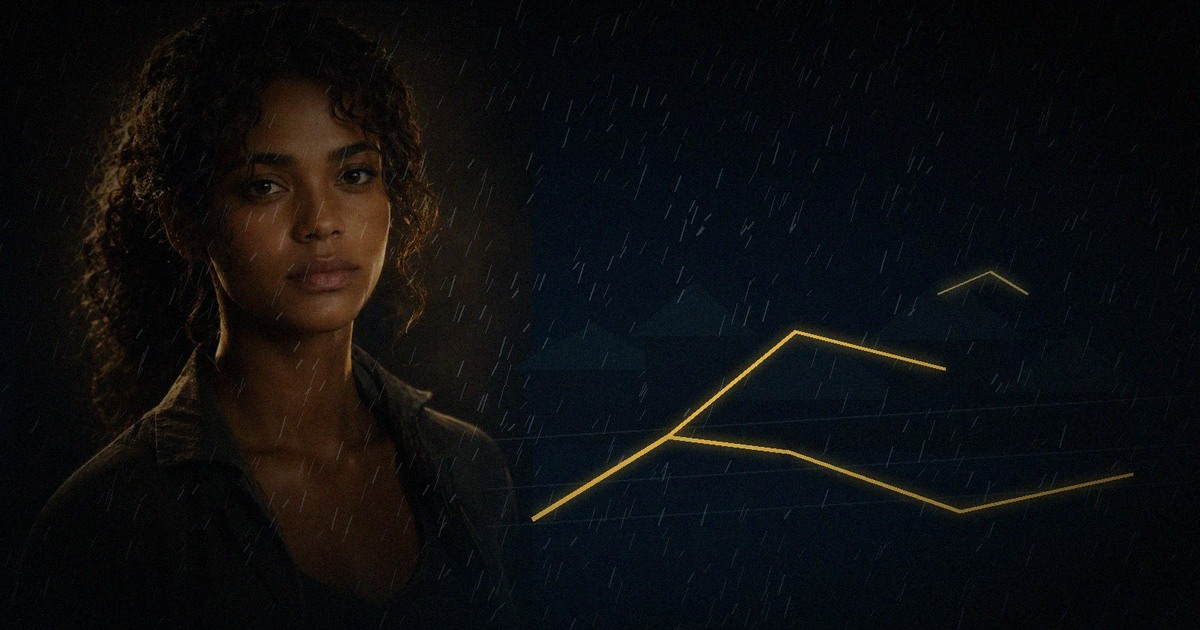
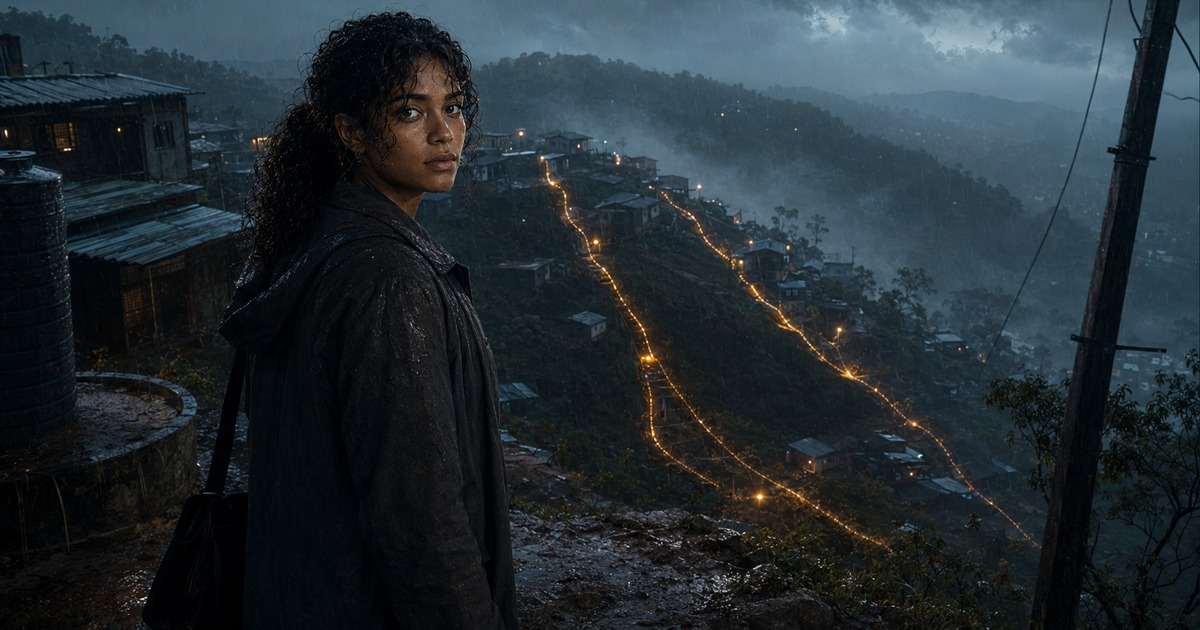
Add files via upload

diff --git a/public/Nara/episode-03-what-must-be-allowed-to-fall.html b/public/Nara/episode-03-what-must-be-allowed-to-fall.html
@@ -78,8 +78,7 @@
 <a class="btn gold" href="#scene-01">Begin the story</a>
 </div>
 </div>
-
-<figure class="hero-card hero-image"><img alt="Nara stands in storm rain beside three narrow golden verified paths over a dark hillside." fetchpriority="high" height="900" src="assets/img/s3/E03_R01_verified_paths.webp" width="1600"/><figcaption class="hero-caption">Protection begins by naming exactly what the light is—and is not—holding.</figcaption></figure></div>
+<figure class="hero-card hero-image"><img alt="Nara overlooks storm-soaked Kavera Ridge as narrow golden evacuation paths trace the unstable hillside." fetchpriority="high" height="941" src="assets/img/s3/E03_S00_hero_kavera_ridge.webp" width="1672"/><figcaption class="hero-caption">The hill is moving. Nara can protect only what she names precisely.</figcaption></figure></div>
 </section>
 <section class="section">
 <div class="narrow">
@@ -99,8 +98,7 @@
 <div class="scene-number">01</div>
 <div class="scene-title"><h2>The Glass Walks</h2><small>Kavera Ridge Community Clinic · 06:12 · nine days after CIVIC-9</small></div>
 </header>
-
-<div class="cinematic-grid"><figure class="image-frame wide"><img alt="A storm-dark clinic counter, sliding cup, floor crack and a narrowly supported stair surround Nara." decoding="async" height="900" loading="lazy" src="assets/img/s3/E03_R02_clinic_limit.webp" width="1600"/><figcaption>One cup moves. One stair holds. The first limit is small enough to be true.</figcaption></figure></div><div class="story-prose">
+<div class="cinematic-grid"><figure class="image-frame wide"><img alt="Inside a cracked clinic during heavy rain, Nara holds one failing stair while staff evacuate patients." decoding="async" height="941" loading="lazy" src="assets/img/s3/E03_S01_the_glass_walks.webp" width="1672"/><figcaption>One stair. Eighteen seconds. The first limit is small enough to be true.</figcaption></figure></div><div class="story-prose">
 <p class="opening dropcap">The first sign that the hill was moving was that the water in Kelechi’s cup walked uphill.</p>
 <p>He had set it on the clinic counter beside three cartons of insulin, a roll of cold-chain labels and the breakfast he had been trying to make Nara eat since Boroko. The cup trembled once. Then it slid six centimetres toward the wall.</p>
 <p>Kelechi caught it before it fell.</p>
@@ -169,7 +167,6 @@
 <div class="scene-title"><h2>No One Leaves a House Twice</h2><small>Kavera Ridge lower junction · 06:31</small></div>
 </header>
 <div class="cinematic-wide">
-
 </div>
 <div class="story-prose">
 <p class="opening dropcap">By the time Municipal Resilience arrived, the hill had drawn a dark line through the neighbourhood.</p>
@@ -253,9 +250,8 @@
 <div class="scene-title"><h2>Twenty Minutes Is Not Forever</h2><small>Kavera Ridge crown road · 06:38</small></div>
 </header>
 <div class="cinematic-wide">
-
 </div>
-<div class="cinematic-grid"><figure class="image-frame wide"><img alt="A rain-dark hillside, twenty countdown marks and one narrow golden evacuation route." decoding="async" height="900" loading="lazy" src="assets/img/s3/E03_R03_twenty_minutes.webp" width="1600"/><figcaption>Time protects only when everyone knows where it ends.</figcaption></figure></div><div class="story-prose">
+<div class="cinematic-grid"><figure class="image-frame wide"><img alt="Residents descend Kavera Ridge through rain along a narrow golden evacuation path while Nara watches the unstable slope." decoding="async" height="941" loading="lazy" src="assets/img/s3/E03_S03_twenty_minutes.webp" width="1672"/><figcaption>Twenty minutes is not forever. It is time enough to begin leaving.</figcaption></figure></div><div class="story-prose">
 <p class="opening dropcap">They put the countdown where everyone could see it.</p>
 <p>Kila tied a digital road timer to the church fence. Lani assigned one radio channel to household counts and another to slope movement. Sefa opened the church hall and turned pews into sorting tables: medicine, documents, food, mobility assistance.</p>
 <p>Miri refused police inside the houses.</p>
@@ -315,7 +311,6 @@
 <div class="scene-title"><h2>Gold Across the Ridge</h2><small>Kavera Ridge · 06:49</small></div>
 </header>
 <div class="cinematic-wide">
-
 </div>
 <div class="story-prose">
 <p class="opening dropcap">Hope changed the direction of traffic.</p>
@@ -381,7 +376,6 @@
 <div class="scene-title"><h2>Hope Looks Like Engineering</h2><small>Kavera Ridge church terrace · 06:52</small></div>
 </header>
 <div class="cinematic-wide">
-
 </div>
 <div class="story-prose">
 <p class="opening dropcap">Nara removed the line from the clinic wall.</p>
@@ -425,7 +419,6 @@
 <div class="scene-title"><h2>The Deep Line</h2><small>Survey point K-4 · 06:55</small></div>
 </header>
 <div class="cinematic-wide">
-
 </div>
 <div class="story-prose">
 <p class="opening dropcap">Adaeze took Nara to the borehole because argument had become less dangerous than ignorance.</p>
@@ -475,9 +468,8 @@
 <div class="scene-title"><h2>The Clearance Order</h2><small>Kavera Ridge lower junction · 06:58</small></div>
 </header>
 <div class="cinematic-wide">
-
 </div>
-<div class="cinematic-grid"><figure class="image-frame wide"><img alt="An emergency clearance order, a reversing machine and house keys beside a blue door." decoding="async" height="900" loading="lazy" src="assets/img/s3/E03_R04_clearance_and_keys.webp" width="1600"/><figcaption>The refusal to leave began with evidence, not ignorance.</figcaption></figure></div><div class="story-prose">
+<div class="cinematic-grid"><figure class="image-frame wide"><img alt="Nara and Kavera Ridge residents confront an emergency official beside excavators and evacuation buses in the rain." decoding="async" height="941" loading="lazy" src="assets/img/s3/E03_S07_clearance_order.webp" width="1672"/><figcaption>The machines reverse before the order asks anyone to trust them.</figcaption></figure></div><div class="story-prose">
 <p class="opening dropcap">Mere Igo arrived on foot because the road was blocked.</p>
 <p>She carried no umbrella. The independent rights observer from the CIVIC-9 incident held her phone inside a clear evidence pouch and a printed order above the rain.</p>
 <p>“Stop the machines,” she said.</p>
@@ -530,7 +522,6 @@
 <div class="scene-title"><h2>A Safer Place to Leave From</h2><small>Kavera Ridge · 07:02</small></div>
 </header>
 <div class="cinematic-wide">
-
 </div>
 <div class="story-prose">
 <p class="opening dropcap">Lani read the notice on the public channel.</p>
@@ -578,8 +569,7 @@
 <div class="scene-number">09</div>
 <div class="scene-title"><h2>Let Mine Go First</h2><small>Miri’s house · north row · 07:05</small></div>
 </header>
-
-<div class="cinematic-grid"><figure class="image-frame wide"><img alt="A blue house turns away from the occupied stair and slides along a narrow golden release path." decoding="async" height="900" loading="lazy" src="assets/img/s3/E03_R05_release_blue_house.webp" width="1600"/><figcaption>Not gently. Safely.</figcaption></figure></div><div class="story-prose">
+<div class="cinematic-grid"><figure class="image-frame wide"><img alt="Nara faces Miri and her family beside their blue-doored hillside home as fine golden lines reveal a safer release path." decoding="async" height="941" loading="lazy" src="assets/img/s3/E03_S09_let_mine_go_first.webp" width="1672"/><figcaption>Miri does not surrender her home. She chooses where its weight may go.</figcaption></figure></div><div class="story-prose">
 <p class="opening dropcap">Miri entered her house without Nara.</p>
 <p>That mattered.</p>
 <p>Nara waited outside the threshold while Kila stood where he could reach Miri without pretending he owned the minute. Inside, drawers opened. A cupboard door struck a wall. The house shifted and every loose spoon answered.</p>
@@ -619,9 +609,8 @@
 <div class="scene-title"><h2>The Hill Chooses Gravity</h2><small>Kavera Ridge north stair · 07:08</small></div>
 </header>
 <div class="cinematic-wide">
-
 </div>
-<div class="cinematic-grid"><figure class="image-frame wide"><img alt="A cutaway hillside shows empty houses releasing into a gully while a school road remains protected." decoding="async" height="900" loading="lazy" src="assets/img/s3/E03_R06_gravity_path.webp" width="1600"/><figcaption>The light does not defeat gravity. It gives gravity a safer direction.</figcaption></figure></div><div class="story-prose">
+<div class="cinematic-grid"><figure class="image-frame wide"><img alt="A vast landslide tears empty houses into a gully while a narrow golden path protects the school road across the ridge." decoding="async" height="941" loading="lazy" src="assets/img/s3/E03_S10_hill_chooses_gravity.webp" width="1672"/><figcaption>The light does not defeat gravity. It gives gravity a safer direction.</figcaption></figure></div><div class="story-prose">
 <p class="opening dropcap">House two went roof-first.</p>
 <p>House three broke at the middle and slid in two pieces.</p>
 <p>The water tank from house four rolled toward the stair. Nara caught its path with a curved gold plane, held it away from the last households and let it continue into the gully. It burst below them in a white rush.</p>
@@ -701,9 +690,8 @@
 <div class="scene-title"><h2>Which Way Is Down</h2><small>Kavera Ridge lower junction · 07:13</small></div>
 </header>
 <div class="cinematic-wide">
-
 </div>
-<div class="cinematic-grid"><figure class="image-frame wide"><img alt="Nara appears against competing tilted horizons while responders carry a rescue board through rain." decoding="async" height="900" loading="lazy" src="assets/img/s3/E03_R07_which_way_down.webp" width="1600"/><figcaption>The route is empty. The remaining act of protection is to leave.</figcaption></figure></div><div class="story-prose">
+<div class="cinematic-grid"><figure class="image-frame wide"><img alt="Emergency responders carry an exhausted Nara through hard rain after the ridge has fallen." decoding="async" height="941" loading="lazy" src="assets/img/s3/E03_S11_which_way_is_down.webp" width="1672"/><figcaption>The route is empty. The remaining act of protection is to leave.</figcaption></figure></div><div class="story-prose">
 <p class="opening dropcap">When the movement stopped, Nara was standing on a vertical road.</p>
 <p>She knew intellectually that the road was almost level. Her body disagreed. The sky lay to her right. The church wall was beneath her. Every step attempted to fall in a different direction.</p>
 <p>She went to one knee.</p>
@@ -749,9 +737,8 @@
 <div class="scene-title"><h2>The Key Still Opens Something</h2><small>Kavera Ward School · that evening</small></div>
 </header>
 <div class="cinematic-wide">
-
 </div>
-<div class="cinematic-grid"><figure class="image-frame wide"><img alt="A seamless black arc lies exposed beneath rain-cleaned earth with an incomplete gold line." decoding="async" height="900" loading="lazy" src="assets/img/s3/E03_R08_black_arc.webp" width="1600"/><figcaption>The hill falls. Something older is uncovered.</figcaption></figure></div><div class="story-prose">
+<div class="cinematic-grid"><figure class="image-frame wide"><img alt="Nara and Adaeze kneel in rain-soaked earth beside a dark seamless artifact uncovered beneath Kavera Ridge." decoding="async" height="941" loading="lazy" src="assets/img/s3/E03_S12_key_still_opens.webp" width="1672"/><figcaption>The hill falls. Something older is uncovered.</figcaption></figure></div><div class="story-prose">
 <p class="opening dropcap">Thirty-one homes were destroyed. Fourteen more were marked unsafe. The clinic was gone above the foundation line. Kelechi received twelve stitches and a lecture he claimed was longer than the cut.</p>
 <p class="beat">No one died.</p>
 <p>The sentence did not cancel the others.</p>

diff --git a/public/Nara/index.html b/public/Nara/index.html
@@ -171,7 +171,7 @@
         </div>
         <a class="poster-link" href="episode-03-what-must-be-allowed-to-fall.html" aria-label="Read What Must Be Allowed to Fall, Episode 03">
           <figure class="image-frame wide">
-            <img src="assets/img/s3/E03_R01_verified_paths.webp" width="1600" height="900" loading="lazy" decoding="async" alt="Nara stands in storm rain beside three narrow verified golden paths over a dark hillside">
+            <img src="assets/img/s3/E03_S00_hero_kavera_ridge.webp" width="1672" height="941" loading="lazy" decoding="async" alt="Nara overlooks storm-soaked Kavera Ridge as narrow golden evacuation paths trace the unstable hillside">
             <figcaption>Read the complete illustrated third story · approximately 29 minutes</figcaption>
           </figure>
         </a>
